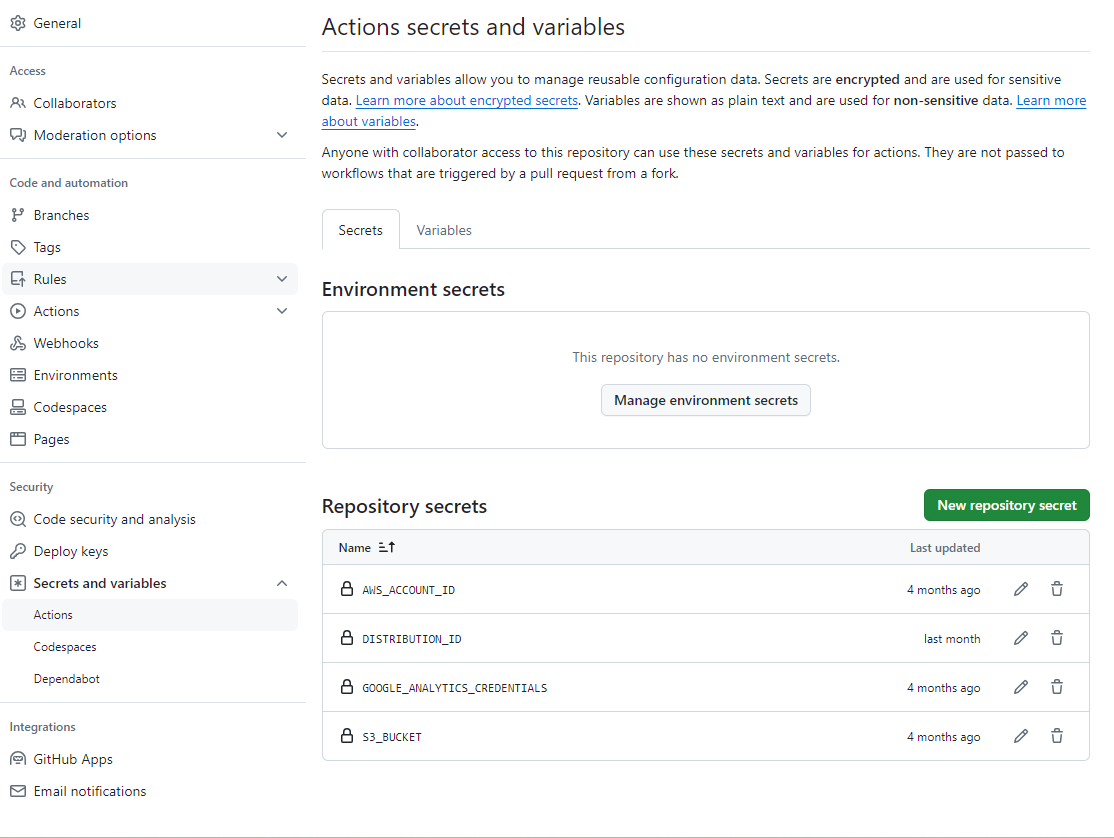
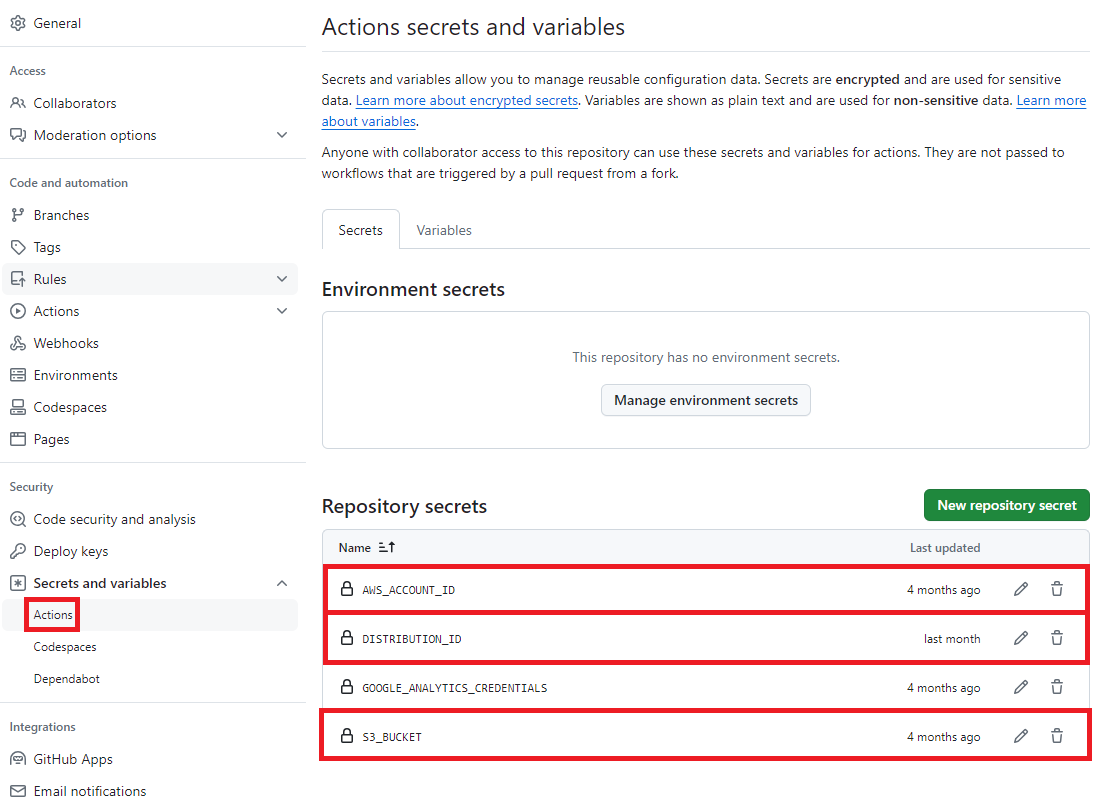
update hugo-github

diff --git a/content/post/2023/11/hugo-github.md b/content/post/2023/11/hugo-github.md
@@ -18,7 +18,7 @@ thumbnail: /images/hugo.webp
 
 <!--more-->
 
-必要な手順としては、IAMロールの設定と、Github Actionsの設定のみになります。
+必要な手順としては、AWS IAMロールの設定およびGithub Actionsの設定のみになります。
 
 {{< box "関連記事" >}}
 <ul>
@@ -31,13 +31,23 @@ thumbnail: /images/hugo.webp
 
 ## IAMロールの設定
 
-まずは、IAMコンソールのIDプロバイダから、OIDCプロバイダの設定を以下の様に行います。プロバイダのタイプは`OpenID Connect`で、プロバイダのURLは`https://token.actions.githubusercontent.com`、対象者は`sts.amazonaws.com`を入力します。
+まずは、AWS IAMコンソールの「IDプロバイダ」から、OIDCプロバイダの設定を以下の様に行います。
+
+OIDCプロバイダとは、AWSに信頼できる外部の認証元として登録するサービスのことです。AWSとGitHub Actionsを連携させるために設定するために必要になります。
+
+IDプロバイダーの追加画面で、以下の通りに設定します。 
+
+* プロバイダのタイプ：`OpenID Connect`
+* プロバイダのURL：`https://token.actions.githubusercontent.com`
+* 対象者：`sts.amazonaws.com`
 
 {{< luminous src="/images/hugo-github-01.png" caption="OIDCプロバイダの設定">}}
 
-続いてIAMロールを作成します。作成したロールの信頼ポリシーの編集で、ポリシーを以下の様に設定します。
+続いてIAMロールを作成します。ロール名は分かれば何でも良いですが、今回は`blog_github_action_role`とします。
 
-{{< code lang="json" title="信頼ポリシー" >}}
+作成したロールの信頼ポリシーの編集で、ポリシーを以下の通りに設定します。それぞれ、AWSアカウントIDとGitHubユーザー名・リポジトリ名を指定します。
+
+{{< code lang="json" title="信頼ポリシー" hl_lines="7 12" >}}
 {
   "Version": "2012-10-17",
   "Statement": [
@@ -57,12 +67,16 @@ thumbnail: /images/hugo.webp
 }
 {{< /code >}}
 
+ここまででAWS側の設定は完了です。
+
 ## Github Actionsの設定
 
-続いて、Github Actionsの設定です。GitHubリポジトリの`.github/workflows/`ディレクトリに`deploy.yml`を配置します。Hugoのビルドは「[peaceiris/actions-hugo](https://github.com/peaceiris/actions-hugo)」を使用します。
+続いて、ワークフローを定義するファイルの作成と、Github Actionsの設定になります。
 
-{{< code lang="yml" title="deploy.yml" >}}
-name: deploy
+GitHubリポジトリの`.github/workflows`ディレクトリに`build-deploy.yml`を配置します。ファイルは以下の様にします。
+
+{{< code lang="yml" title="build-deploy.yml" hl_lines="29 36" >}}
+name: build-deploy
 
 on:
   push:
@@ -70,28 +84,34 @@ on:
       - main
 
 jobs:
-  deploy:
+  build-deploy:
     runs-on: ubuntu-latest
+    timeout-minutes: 5
     permissions:
       id-token: write
       contents: read
     steps:
-      - uses: actions/checkout@v4
+      - name: Get Latest Hugo Version
+        id: hugo_version
+        run: |
+          latest=$(curl -s https://api.github.com/repos/gohugoio/hugo/releases/latest | jq -r '.tag_name')
+          echo "version=${latest#v}" >> $GITHUB_OUTPUT
+      - name: Install Hugo CLI
+        run: |
+          wget -O ${{ runner.temp }}/hugo.deb https://github.com/gohugoio/hugo/releases/download/v${{ steps.hugo_version.outputs.version }}/hugo_extended_${{ steps.hugo_version.outputs.version }}_linux-amd64.deb \
+          && sudo dpkg -i ${{ runner.temp }}/hugo.deb
+      - name: Checkout
+        uses: actions/checkout@v4
         with:
           submodules: true
-          fetch-depth: 0 # enableGitInfoでの取得用
-      - name: Setup Hugo
-        uses: peaceiris/actions-hugo@v3
-        with:
-          hugo-version: "latest"
-          extended: true     
+          fetch-depth: 0 # enableGitInfoでの取得用 
       - name: Build Hugo
         run: hugo --minify --buildFuture
       - name: Configure AWS Credentials
         uses: aws-actions/configure-aws-credentials@v4
         with:
           aws-region: ap-northeast-1
-          role-to-assume: arn:aws:iam::${{ secrets.AWS_ACCOUNT_ID }}:role/blog_github_action_role  # ロール名
+          role-to-assume: arn:aws:iam::${{ secrets.AWS_ACCOUNT_ID }}:role/blog_github_action_role # ロール名
           role-session-name: GitHubActions-${{ github.run_id }}
           role-duration-seconds: 900
       - name: Upload files to the production website with the AWS CLI
@@ -101,22 +121,32 @@ jobs:
           aws cloudfront create-invalidation --region ap-northeast-1 --distribution-id ${{ secrets.DISTRIBUTION_ID }} --paths "/*"
 {{< /code >}}
 
-ここで、`blog_github_action_role`としてる箇所は今回作成したIAMのロール名になります。
+ここで、36行目に今回作成したIAMのロール名を指定します。
 
-また、GitHubのSecrets設定で、`AWS_ACCOUNT_ID`にAWSのアカウントID、`S3_BUCKET`にS3バケット名、`DISTRIBUTION_ID`にはディストリビューションIDを設定します。
+ワークフローの内容としては、`main`ブランチにプッシュされた時に、HugoのビルドとAWS S3へのデプロイを行います。Hugoは最新バージョンを取得しビルドするようにしています。
+
+また、36行目で`fetch-depth: 0`としているのは、記事の最終更新日を設定する際に、過去のコミットの日時も取得するためです。
+
+次に、GitHubのリポジトリ設定で、「Secrets and variables（Actions）」の設定画面で、`Repository secrets`に変数を以下の通りに設定します。 
+
+`AWS_ACCOUNT_ID`にAWSのアカウントID、`S3_BUCKET`にS3バケット名、`DISTRIBUTION_ID`にはディストリビューションIDを設定します。
+
+* `AWS_ACCOUNT_ID`：AWSのアカウントID
+* `S3_BUCKET`：AWS S3のバケット名
+* `DISTRIBUTION_ID`：Amazon CloudFrontのディストリビューションID
 
 {{< luminous src="/images/hugo-github-02.png" caption="GitHubのSecrets設定">}}
 
-これで設定は完了ですので、実際にGitHubにプッシュし、GitHub Actionsの画面から処理が実行されているのを確認できたら成功です。
+ここまでで、必要な設定は完了になります。これでプッシュ時に自動でS3にデプロイできるようになりました。
 
-{{< luminous src="/images/hugo-github-03.png" caption="GitHub Actions画面">}}
+実際にGitHubにプッシュし、GitHub Actionsの画面から処理が実行されること、処理実行後にサイトに更新が反映されていることが確認できたら成功です。
 
 * * *
 
-これでプッシュ時に自動でS3にデプロイできるようになりました。ここまでで、Hugoブログの構築が完了となります。以上で記事を終わりにします。
+ここまででHugoブログの構築が完了となります。以上で記事を終わりにします。
 
 ## 参考文献
 
-* [GitHub ActionsにAWSクレデンシャルを直接設定したくないのでIAMロールを利用したい | DevelopersIO](https://dev.classmethod.jp/articles/github-actions-aws-sts-credentials-iamrole/)
+* [Host on GitHub Pages | Hugo.io](https://gohugo.io/host-and-deploy/host-on-github-pages/)
 
-* [静的サイトジェネレータ「Hugo」でブログサイトを S3 + CloudFrontでホストするまで [第4回〜HugoをGithub Action でS3にプッシュする〜] | 犬と暮らすエンジニア日記](https://technowanko.com/posts/hugo/004_hugo_build_on_github/)
+* [GitHub ActionsにAWSクレデンシャルを直接設定したくないのでIAMロールを利用したい | DevelopersIO](https://dev.classmethod.jp/articles/github-actions-aws-sts-credentials-iamrole/)
